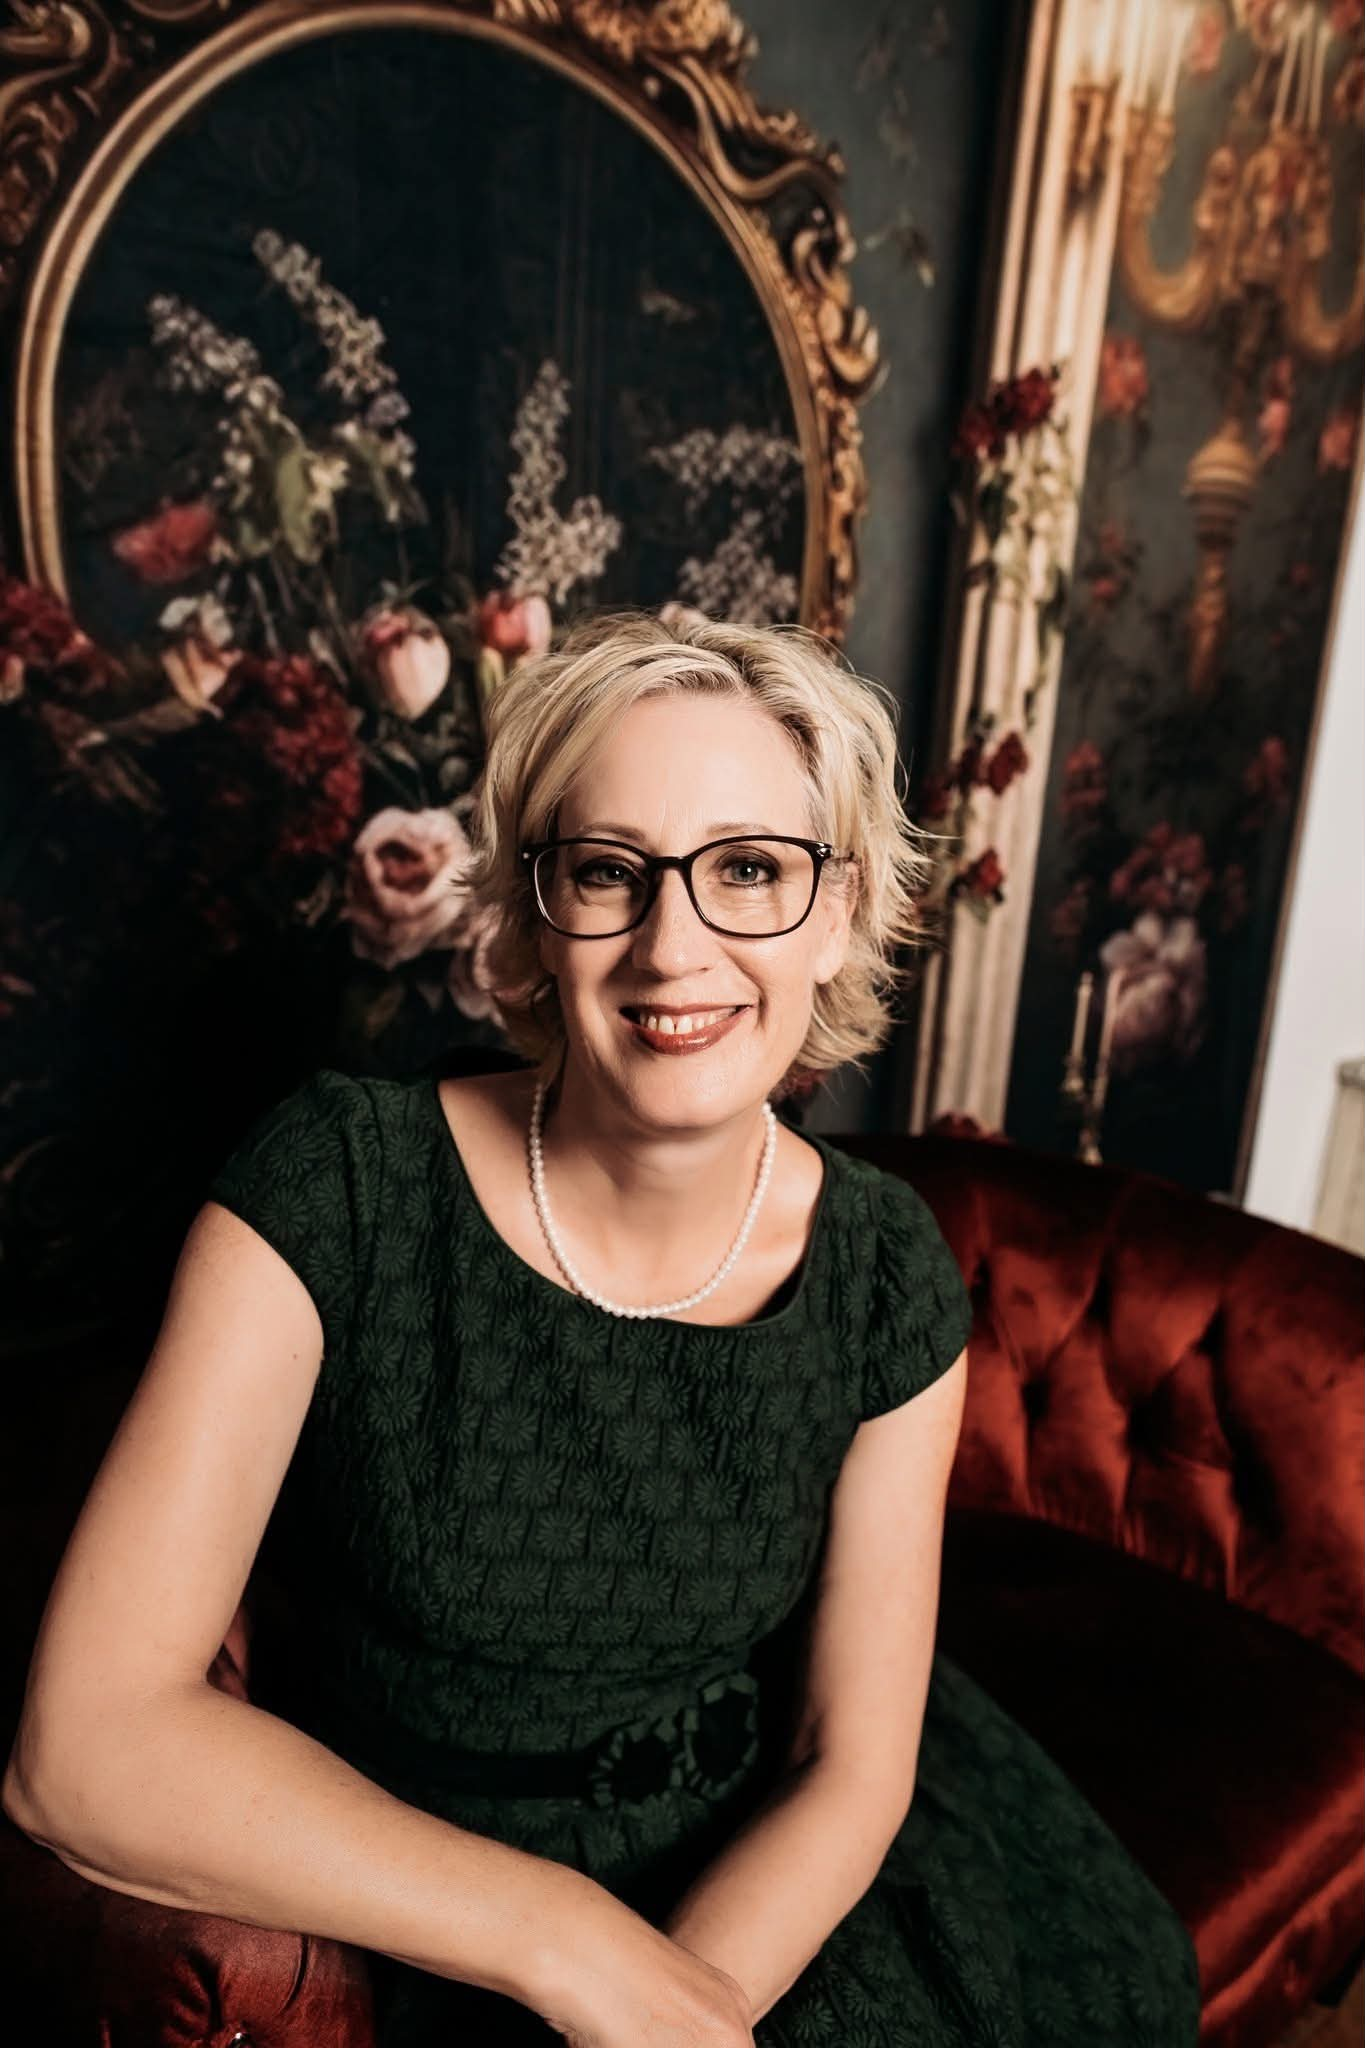
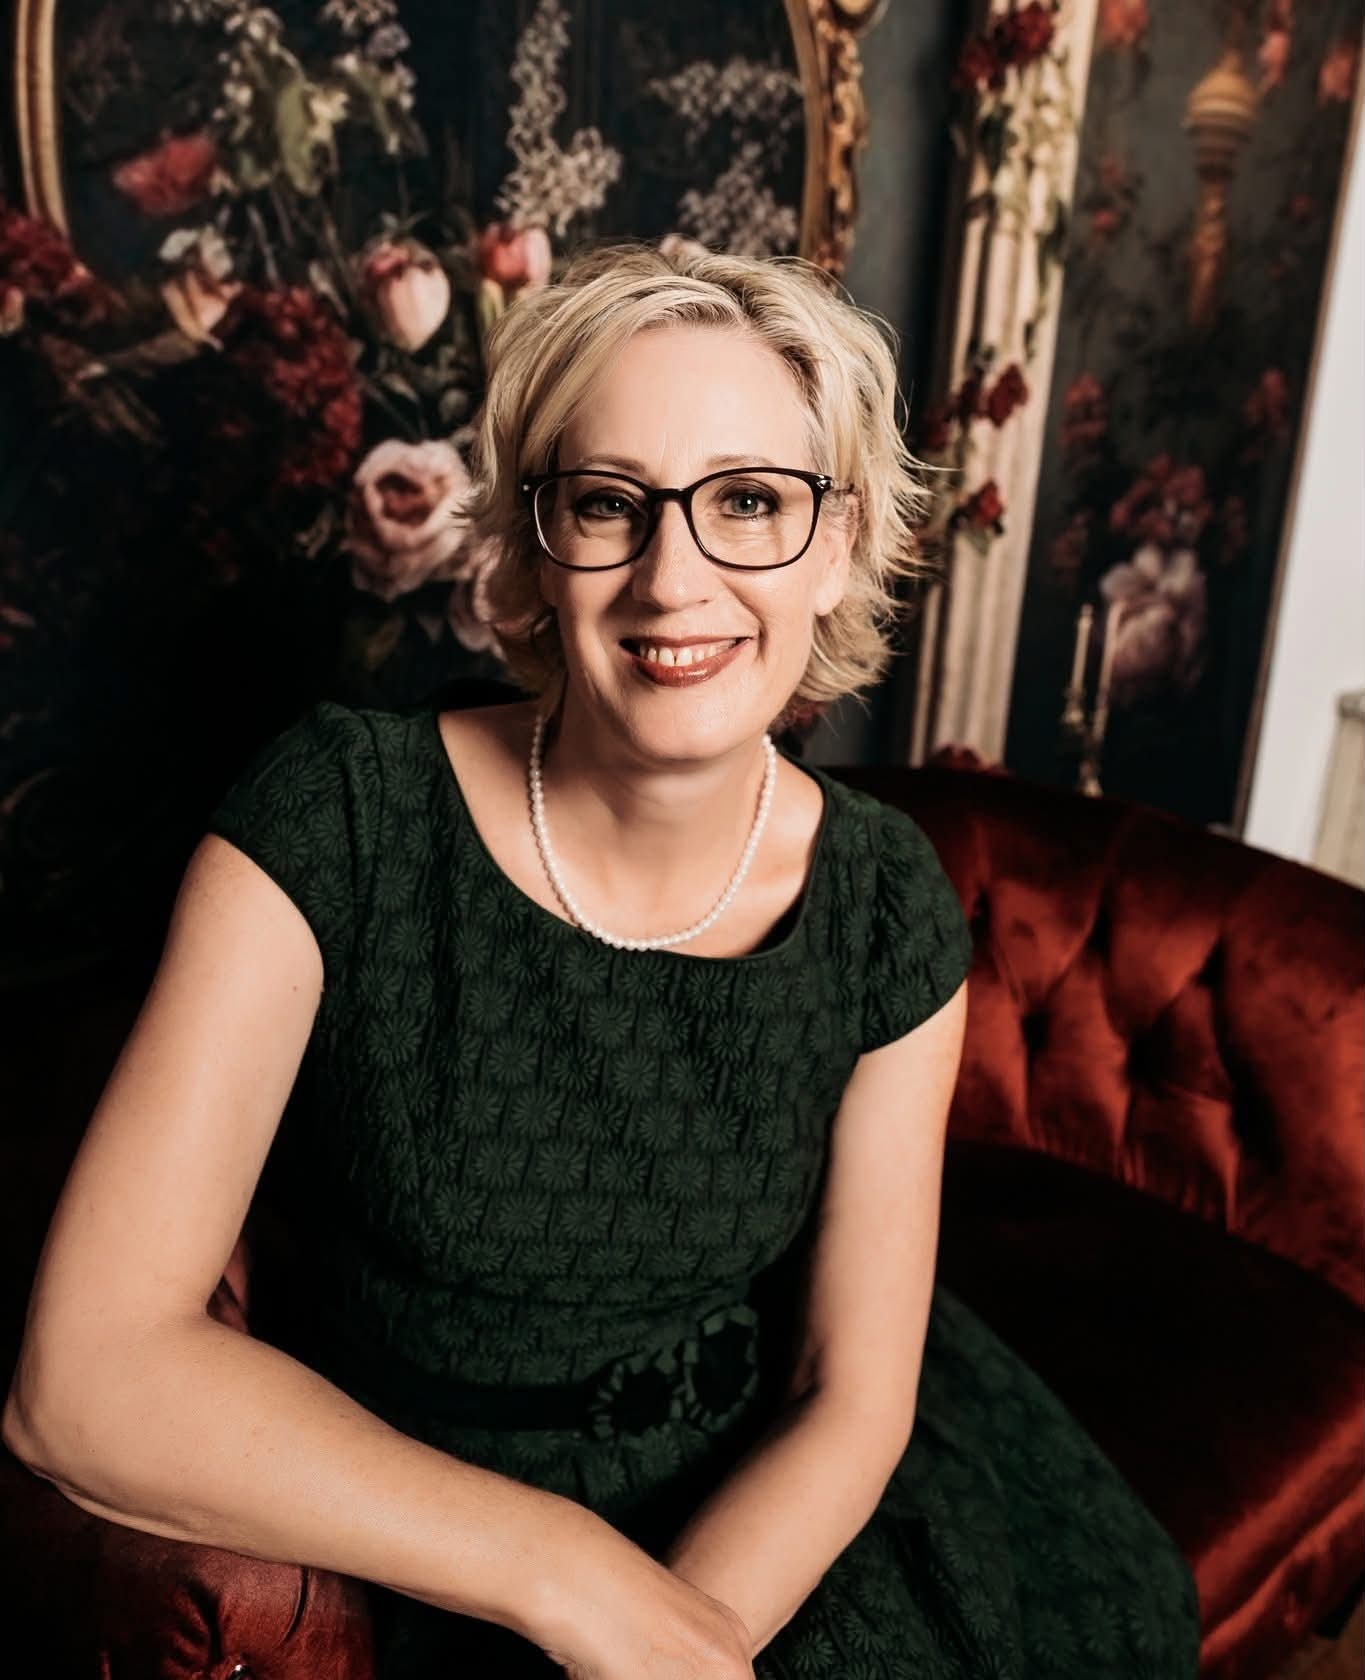
Align Cindy and Jana headshots to top of leadership photo cards

diff --git a/src/data/mockData.ts b/src/data/mockData.ts
@@ -39,6 +39,7 @@ export interface BoardMember {
   funFact: string;
   email: string;
   phone: string;
+  objectPosition?: string;
 }
 
 export interface SponsorshipTier {
@@ -247,7 +248,8 @@ export const MOCK_BOARD_MEMBERS: BoardMember[] = [
     headshot: "/ccm-leaders/chauntel-busche.jpg",
     funFact: "Enjoys spearheading local community initiatives and supporting Melissa businesses!",
     email: "chauntel@communitycommercemelissa.com",
-    phone: "(972) 837-1001"
+    phone: "(972) 837-1001",
+    objectPosition: "top"
   },
   {
     id: "board-2",
@@ -258,7 +260,8 @@ export const MOCK_BOARD_MEMBERS: BoardMember[] = [
     headshot: "/ccm-leaders/joey-mitnick.jpg",
     funFact: "Passionate about local business growth and community development.",
     email: "joey@communitycommercemelissa.com",
-    phone: "(972) 837-1002"
+    phone: "(972) 837-1002",
+    objectPosition: "top"
   },
   {
     id: "board-3",
@@ -269,7 +272,8 @@ export const MOCK_BOARD_MEMBERS: BoardMember[] = [
     headshot: "/ccm-leaders/jana.jpg",
     funFact: "Enjoys financial planning and active involvement in local Melissa events.",
     email: "jana@communitycommercemelissa.com",
-    phone: "(972) 837-1003"
+    phone: "(972) 837-1003",
+    objectPosition: "center 5%"
   },
   {
     id: "board-4",
@@ -280,7 +284,8 @@ export const MOCK_BOARD_MEMBERS: BoardMember[] = [
     headshot: "/ccm-leaders/alta-simmons.jpg",
     funFact: "Passionate about community involvement and local networking.",
     email: "alta@communitycommercemelissa.com",
-    phone: "(972) 837-1004"
+    phone: "(972) 837-1004",
+    objectPosition: "top"
   },
   {
     id: "board-5",
@@ -291,7 +296,8 @@ export const MOCK_BOARD_MEMBERS: BoardMember[] = [
     headshot: "/ccm-leaders/brett-zenker.jpg",
     funFact: "Enjoys building digital solutions and supporting local entrepreneurs.",
     email: "brett@communitycommercemelissa.com",
-    phone: "(972) 837-1005"
+    phone: "(972) 837-1005",
+    objectPosition: "top"
   },
   {
     id: "board-6",
@@ -302,7 +308,8 @@ export const MOCK_BOARD_MEMBERS: BoardMember[] = [
     headshot: "/ccm-leaders/cindy-karman.jpg",
     funFact: "Loves organizing community gatherings and supporting small business owners.",
     email: "cindy@communitycommercemelissa.com",
-    phone: "(972) 837-1006"
+    phone: "(972) 837-1006",
+    objectPosition: "center 5%"
   },
   {
     id: "board-7",
@@ -313,7 +320,8 @@ export const MOCK_BOARD_MEMBERS: BoardMember[] = [
     headshot: "/ccm-leaders/joel-valdez.png",
     funFact: "Dedicated to fostering local economic growth and community unity.",
     email: "joel@communitycommercemelissa.com",
-    phone: "(972) 837-1007"
+    phone: "(972) 837-1007",
+    objectPosition: "top"
   }
 ];
 

diff --git a/src/app/leadership/page.tsx b/src/app/leadership/page.tsx
@@ -62,7 +62,8 @@ export default function LeadershipPage() {
                     <img
                       src={member.headshot}
                       alt={member.name}
-                      className="w-full h-full object-cover object-top group-hover:scale-105 transition duration-500"
+                      style={{ objectPosition: member.objectPosition || "top" }}
+                      className="w-full h-full object-cover group-hover:scale-105 transition duration-500"
                     />
                     <div className="absolute inset-0 bg-gradient-to-t from-slate-950/80 via-transparent to-transparent" />
                     
